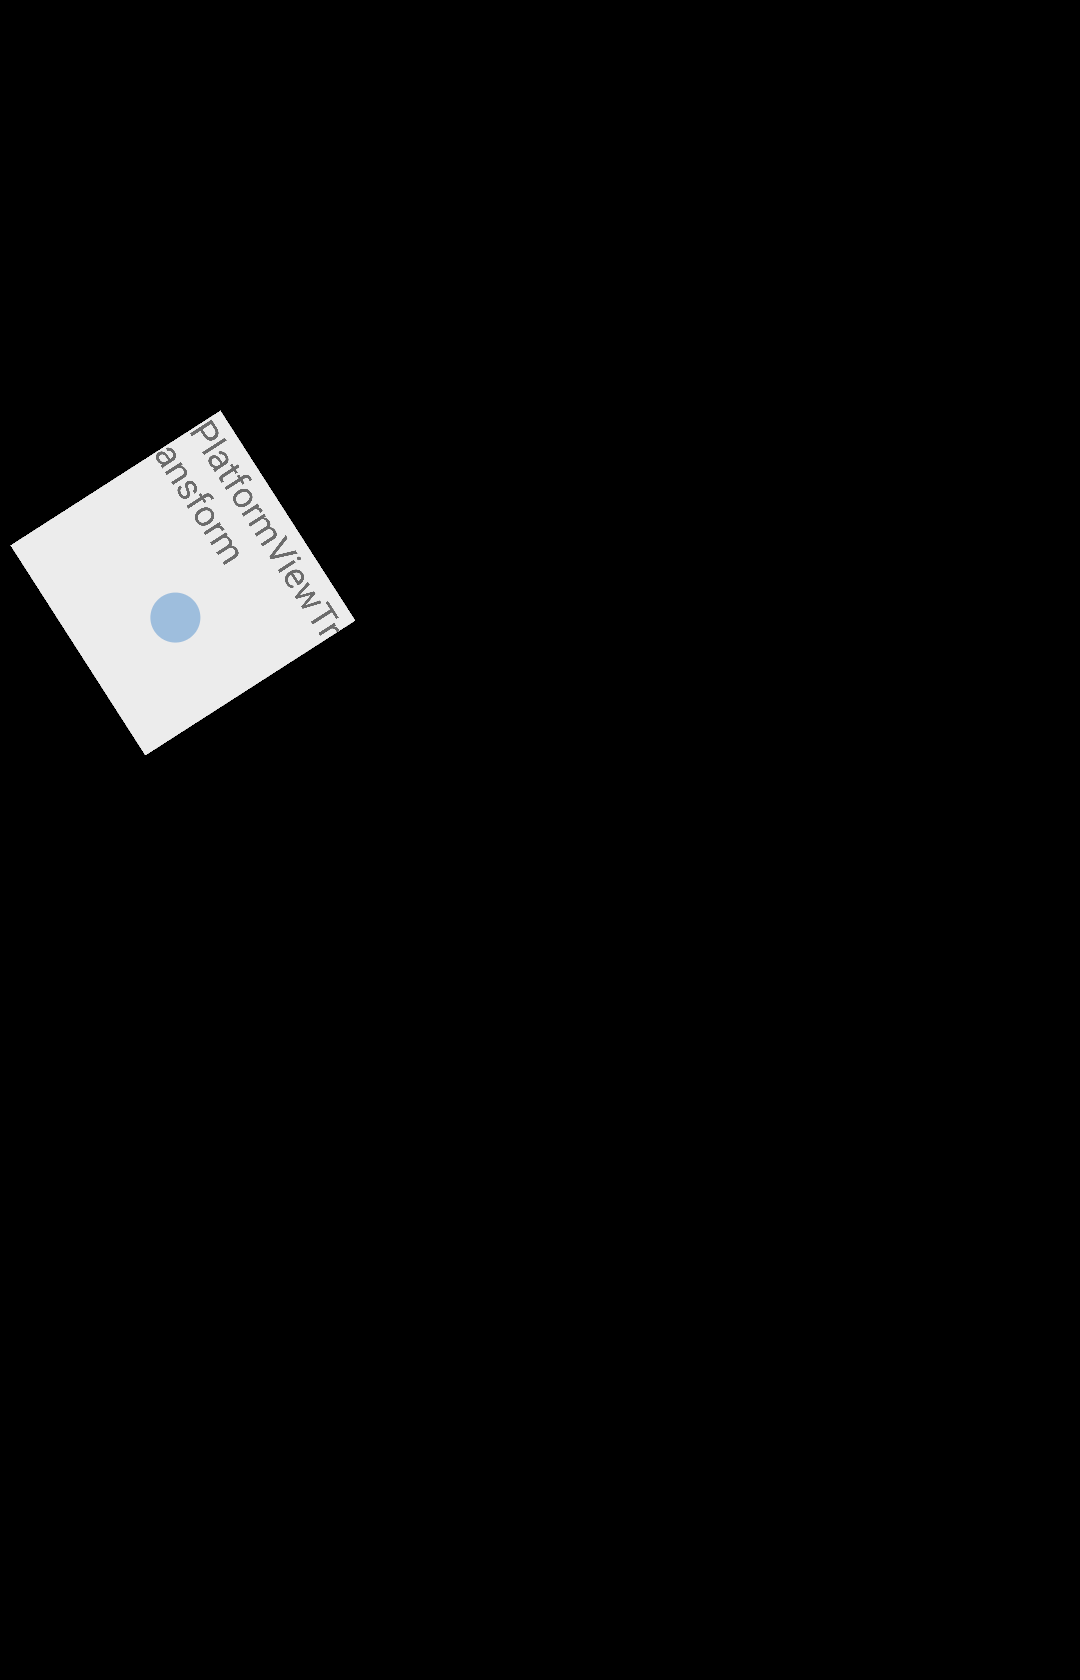
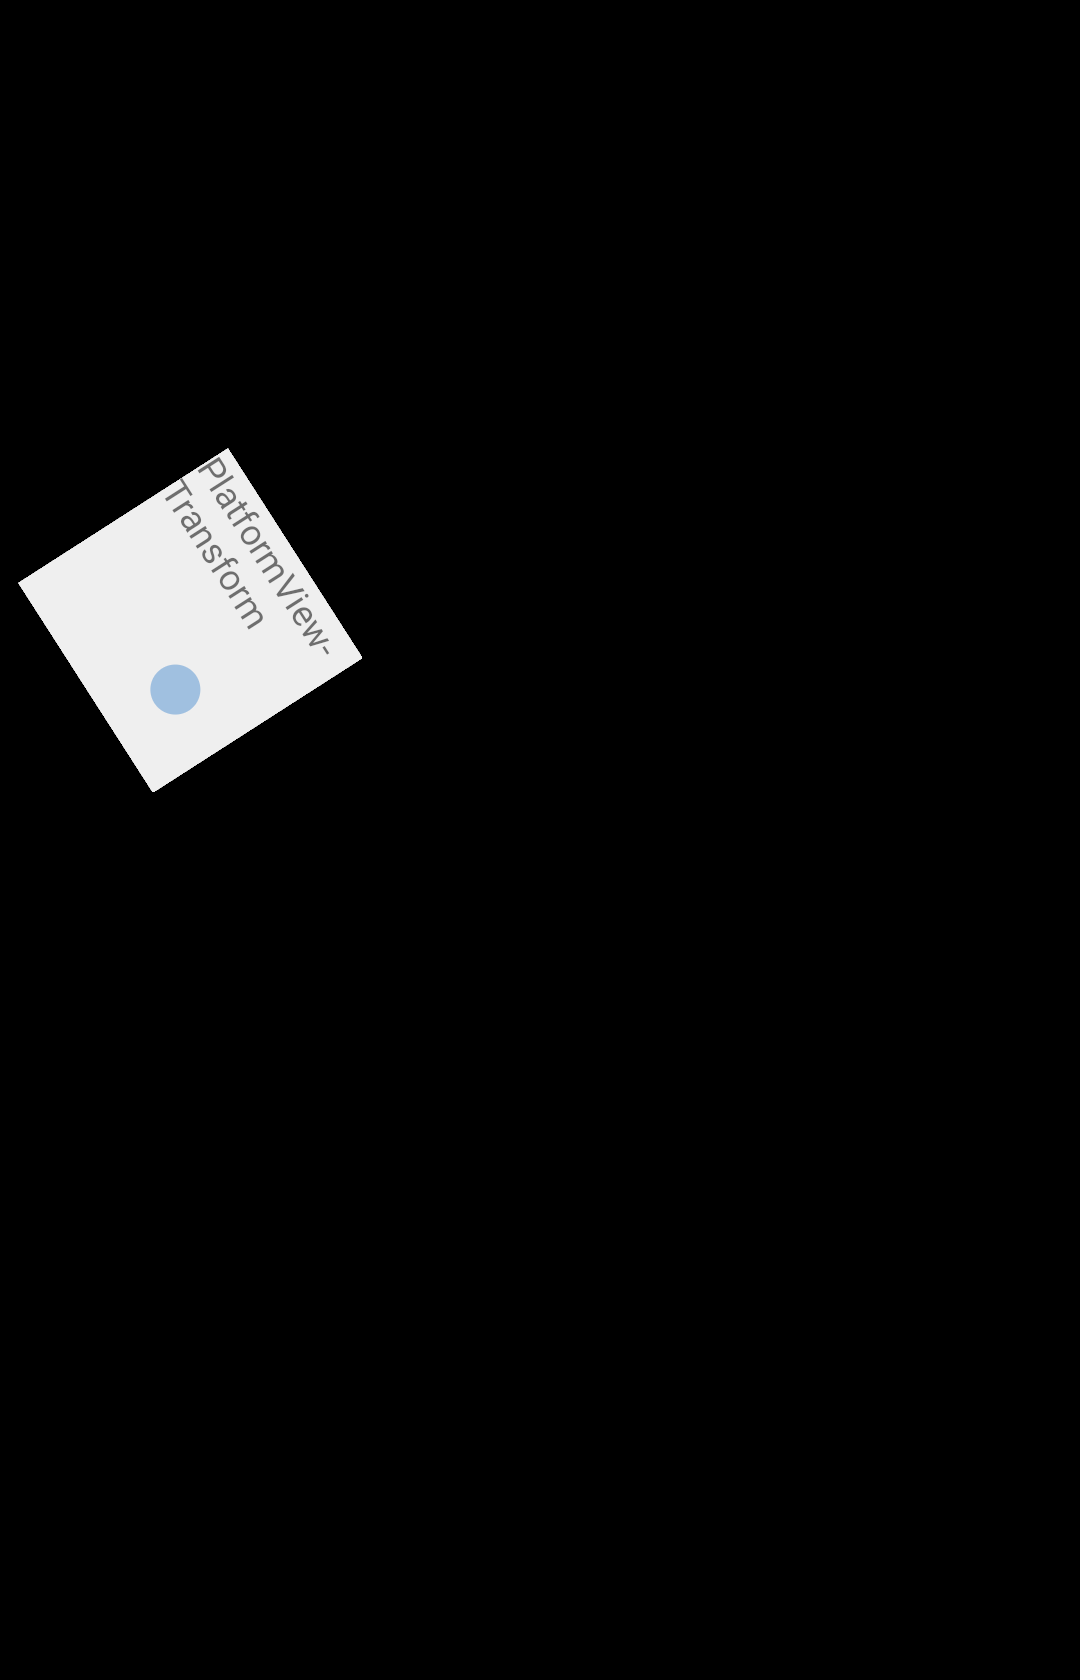
Fix and clean up scenario app for Android (#22540)

Changed region(s): [[0.0, 0.2476, 0.3361, 0.4643]]

diff --git a/testing/scenario_app/lib/src/platform_view.dart b/testing/scenario_app/lib/src/platform_view.dart
@@ -46,8 +46,6 @@ class PlatformViewScenario extends Scenario with _BasePlatformViewScenarioMixin 
   void onBeginFrame(Duration duration) {
     final SceneBuilder builder = SceneBuilder();
 
-    builder.pushOffset(0, 0);
-
     finishBuilderByAddingPlatformViewAndPicture(builder, id);
   }
 }
@@ -69,8 +67,6 @@ class PlatformViewNoOverlayIntersectionScenario extends Scenario with _BasePlatf
   @override
   void onBeginFrame(Duration duration) {
     final SceneBuilder builder = SceneBuilder();
-
-    builder.pushOffset(0, 0);
 
     finishBuilderByAddingPlatformViewAndPicture(
       builder,
@@ -98,8 +94,6 @@ class PlatformViewPartialIntersectionScenario extends Scenario with _BasePlatfor
   void onBeginFrame(Duration duration) {
     final SceneBuilder builder = SceneBuilder();
 
-    builder.pushOffset(0, 0);
-
     finishBuilderByAddingPlatformViewAndPicture(
       builder,
       id,
@@ -125,8 +119,6 @@ class PlatformViewTwoIntersectingOverlaysScenario extends Scenario with _BasePla
   @override
   void onBeginFrame(Duration duration) {
     final SceneBuilder builder = SceneBuilder();
-
-    builder.pushOffset(0, 0);
 
     _addPlatformViewToScene(builder, id, 500, 500);
     final PictureRecorder recorder = PictureRecorder();
@@ -166,8 +158,6 @@ class PlatformViewOneOverlayTwoIntersectingOverlaysScenario extends Scenario wit
   @override
   void onBeginFrame(Duration duration) {
     final SceneBuilder builder = SceneBuilder();
-
-    builder.pushOffset(0, 0);
 
     _addPlatformViewToScene(builder, id, 500, 500);
     final PictureRecorder recorder = PictureRecorder();
@@ -217,8 +207,6 @@ class MultiPlatformViewWithoutOverlaysScenario extends Scenario with _BasePlatfo
   void onBeginFrame(Duration duration) {
     final SceneBuilder builder = SceneBuilder();
 
-    builder.pushOffset(0, 0);
-
     builder.pushOffset(0, 600);
     _addPlatformViewToScene(builder, firstId, 500, 500);
     builder.pop();
@@ -258,8 +246,6 @@ class PlatformViewMaxOverlaysScenario extends Scenario with _BasePlatformViewSce
   @override
   void onBeginFrame(Duration duration) {
     final SceneBuilder builder = SceneBuilder();
-
-    builder.pushOffset(0, 0);
 
     _addPlatformViewToScene(builder, id, 500, 500);
     final PictureRecorder recorder = PictureRecorder();
@@ -314,8 +300,6 @@ class MultiPlatformViewScenario extends Scenario with _BasePlatformViewScenarioM
   void onBeginFrame(Duration duration) {
     final SceneBuilder builder = SceneBuilder();
 
-    builder.pushOffset(0, 0);
-
     builder.pushOffset(0, 600);
     _addPlatformViewToScene(builder, firstId, 500, 500);
     builder.pop();
@@ -357,13 +341,13 @@ class MultiPlatformViewBackgroundForegroundScenario extends Scenario with _BaseP
   void _firstFrame() {
     final SceneBuilder builder = SceneBuilder();
 
-    builder.pushOffset(0, 0);
-
-    builder.pushOffset(0, 600);
+    builder.pushOffset(50, 600);
     _addPlatformViewToScene(builder, firstId, 500, 500);
     builder.pop();
 
+    builder.pushOffset(50, 0);
     _addPlatformViewToScene(builder, secondId, 500, 500);
+    builder.pop();
 
     final PictureRecorder recorder = PictureRecorder();
     final Canvas canvas = Canvas(recorder);
@@ -374,7 +358,6 @@ class MultiPlatformViewBackgroundForegroundScenario extends Scenario with _BaseP
     final Picture picture = recorder.endRecording();
     builder.addPicture(const Offset(0, 0), picture);
 
-    builder.pop();
     final Scene scene = builder.build();
     window.render(scene);
     scene.dispose();
@@ -383,13 +366,12 @@ class MultiPlatformViewBackgroundForegroundScenario extends Scenario with _BaseP
   void _secondFrame() {
     final SceneBuilder builder = SceneBuilder();
 
-    builder.pushOffset(0, 0);
-
     builder.pushOffset(0, 600);
     _addPlatformViewToScene(builder, firstId, 500, 500);
     builder.pop();
 
     _addPlatformViewToScene(builder, secondId, 500, 500);
+
     final Scene scene = builder.build();
     window.render(scene);
     scene.dispose();
@@ -430,9 +412,10 @@ class PlatformViewClipRectScenario extends Scenario with _BasePlatformViewScenar
 
   @override
   void onBeginFrame(Duration duration) {
-    final SceneBuilder builder = SceneBuilder();
-    builder.pushOffset(0, 0);
-    builder.pushClipRect(const Rect.fromLTRB(100, 100, 400, 400));
+    final SceneBuilder builder =
+      SceneBuilder()
+      ..pushClipRect(const Rect.fromLTRB(100, 100, 400, 400));
+
     finishBuilderByAddingPlatformViewAndPicture(builder, id);
   }
 }
@@ -446,8 +429,6 @@ class PlatformViewClipRRectScenario extends PlatformViewScenario {
   @override
   void onBeginFrame(Duration duration) {
     final SceneBuilder builder = SceneBuilder();
-
-    builder.pushOffset(0, 0);
     builder.pushClipRRect(
       RRect.fromLTRBAndCorners(
         100,
@@ -471,18 +452,14 @@ class PlatformViewClipPathScenario extends PlatformViewScenario {
 
   @override
   void onBeginFrame(Duration duration) {
-    final SceneBuilder builder = SceneBuilder();
-
-    builder.pushOffset(0, 0);
-
     final Path path = Path()
       ..moveTo(100, 100)
       ..quadraticBezierTo(50, 250, 100, 400)
       ..lineTo(350, 400)
       ..cubicTo(400, 300, 300, 200, 350, 100)
       ..close();
-    builder.pushClipPath(path);
 
+    final SceneBuilder builder = SceneBuilder()..pushClipPath(path);
     finishBuilderByAddingPlatformViewAndPicture(builder, id);
   }
 }
@@ -495,15 +472,12 @@ class PlatformViewTransformScenario extends PlatformViewScenario {
 
   @override
   void onBeginFrame(Duration duration) {
-    final SceneBuilder builder = SceneBuilder();
-
-    builder.pushOffset(0, 0);
     final Matrix4 matrix4 = Matrix4.identity()
       ..rotateZ(1)
       ..scale(0.5, 0.5, 1.0)
       ..translate(1000.0, 100.0, 0.0);
 
-    builder.pushTransform(matrix4.storage);
+    final SceneBuilder builder = SceneBuilder()..pushTransform(matrix4.storage);
 
     finishBuilderByAddingPlatformViewAndPicture(builder, id);
   }
@@ -517,11 +491,7 @@ class PlatformViewOpacityScenario extends PlatformViewScenario {
 
   @override
   void onBeginFrame(Duration duration) {
-    final SceneBuilder builder = SceneBuilder();
-
-    builder.pushOffset(0, 0);
-    builder.pushOpacity(150);
-
+    final SceneBuilder builder = SceneBuilder()..pushOpacity(150);
     finishBuilderByAddingPlatformViewAndPicture(builder, id);
   }
 }
@@ -600,15 +570,11 @@ class PlatformViewForTouchIOSScenario extends Scenario
 
   void _firstFrame() {
     final SceneBuilder builder = SceneBuilder();
-
-    builder.pushOffset(0, 0);
     finishBuilderByAddingPlatformViewAndPicture(builder, _viewId);
   }
 
   void _secondFrame() {
-    final SceneBuilder builder = SceneBuilder();
-
-    builder.pushOffset(5, 5);
+    final SceneBuilder builder = SceneBuilder()..pushOffset(5, 5);
     finishBuilderByAddingPlatformViewAndPicture(builder, _viewId);
   }
 }

diff --git a/testing/scenario_app/android/app/src/androidTest/java/dev/flutter/scenariosui/ScreenshotUtil.java b/testing/scenario_app/android/app/src/androidTest/java/dev/flutter/scenariosui/ScreenshotUtil.java
@@ -4,8 +4,6 @@
 
 package dev.flutter.scenariosui;
 
-import android.app.Activity;
-import android.content.Context;
 import android.graphics.Bitmap;
 import android.os.Bundle;
 import android.os.Handler;
@@ -129,28 +127,6 @@ public class ScreenshotUtil {
     album = null;
   }
 
-  private static int getStatusBarHeight() {
-    final Context context = InstrumentationRegistry.getTargetContext();
-    // Resource name defined in
-    // https://android.googlesource.com/platform/frameworks/base/+/master/core/res/res/values/dimens.xml#34
-    final int resourceId =
-        context.getResources().getIdentifier("status_bar_height", "dimen", "android");
-    int statusBarHeight = 0;
-    if (resourceId > 0) {
-      statusBarHeight = context.getResources().getDimensionPixelSize(resourceId);
-    }
-    return statusBarHeight;
-  }
-
-  private static int getActionBarHeight(Activity activity) {
-    int actionBarHeight = 0;
-    final android.content.res.TypedArray styledAttributes =
-        activity.getTheme().obtainStyledAttributes(new int[] {android.R.attr.actionBarSize});
-    actionBarHeight = (int) styledAttributes.getDimension(0, 0);
-    styledAttributes.recycle();
-    return actionBarHeight;
-  }
-
   /**
    * Captures a screenshot of {@code TestableFlutterActivity}.
    *
@@ -182,13 +158,7 @@ public class ScreenshotUtil {
             Bitmap bitmap =
                 InstrumentationRegistry.getInstrumentation().getUiAutomation().takeScreenshot();
             // Remove the status and action bars from the screenshot capture.
-            bitmap =
-                Bitmap.createBitmap(
-                    bitmap,
-                    0,
-                    getStatusBarHeight(),
-                    bitmap.getWidth(),
-                    bitmap.getHeight() - getStatusBarHeight() - getActionBarHeight(activity));
+            bitmap = Bitmap.createBitmap(bitmap, 0, 0, bitmap.getWidth(), bitmap.getHeight());
 
             final String screenshotName = String.format("%s__%s", testClass, testName);
             // Write bitmap to the album.

diff --git a/testing/scenario_app/ios/Scenarios/ScenariosUITests/UnobstructedPlatformViewTests.m b/testing/scenario_app/ios/Scenarios/ScenariosUITests/UnobstructedPlatformViewTests.m
@@ -195,30 +195,30 @@
 
   XCUIElement* platform_view1 = app.textViews[@"platform_view[0]"];
   XCTAssertTrue([platform_view1 waitForExistenceWithTimeout:1.0]);
-  XCTAssertEqual(platform_view1.frame.origin.x, 25);
+  XCTAssertEqual(platform_view1.frame.origin.x, 50);
   XCTAssertEqual(platform_view1.frame.origin.y, 325);
   XCTAssertEqual(platform_view1.frame.size.width, 250);
   XCTAssertEqual(platform_view1.frame.size.height, 250);
 
   XCUIElement* platform_view2 = app.textViews[@"platform_view[1]"];
   XCTAssertTrue(platform_view2.exists);
-  XCTAssertEqual(platform_view2.frame.origin.x, 25);
+  XCTAssertEqual(platform_view2.frame.origin.x, 50);
   XCTAssertEqual(platform_view2.frame.origin.y, 25);
   XCTAssertEqual(platform_view2.frame.size.width, 250);
   XCTAssertEqual(platform_view2.frame.size.height, 250);
 
   XCUIElement* overlay1 = app.otherElements[@"platform_view[0].overlay[0]"];
   XCTAssertTrue(overlay1.exists);
-  XCTAssertEqual(overlay1.frame.origin.x, 25);
+  XCTAssertEqual(overlay1.frame.origin.x, 50);
   XCTAssertEqual(overlay1.frame.origin.y, 325);
-  XCTAssertEqual(overlay1.frame.size.width, 225);
+  XCTAssertEqual(overlay1.frame.size.width, 200);
   XCTAssertEqual(overlay1.frame.size.height, 175);
 
   XCUIElement* overlay2 = app.otherElements[@"platform_view[1].overlay[0]"];
   XCTAssertTrue(overlay2.exists);
-  XCTAssertEqual(overlay2.frame.origin.x, 25);
+  XCTAssertEqual(overlay2.frame.origin.x, 50);
   XCTAssertEqual(overlay2.frame.origin.y, 25);
-  XCTAssertEqual(overlay2.frame.size.width, 225);
+  XCTAssertEqual(overlay2.frame.size.width, 200);
   XCTAssertEqual(overlay2.frame.size.height, 250);
 }
 

diff --git a/testing/scenario_app/README.md b/testing/scenario_app/README.md
@@ -46,7 +46,7 @@ The test is run on a x86 emulator. To run the test locally, you must create an e
 
 ```
 hw.lcd.density = 480
-hw.lcd.height = 1920
+hw.lcd.height = 1680
 hw.lcd.width = 1080
 lcd.depth = 16
 ```
